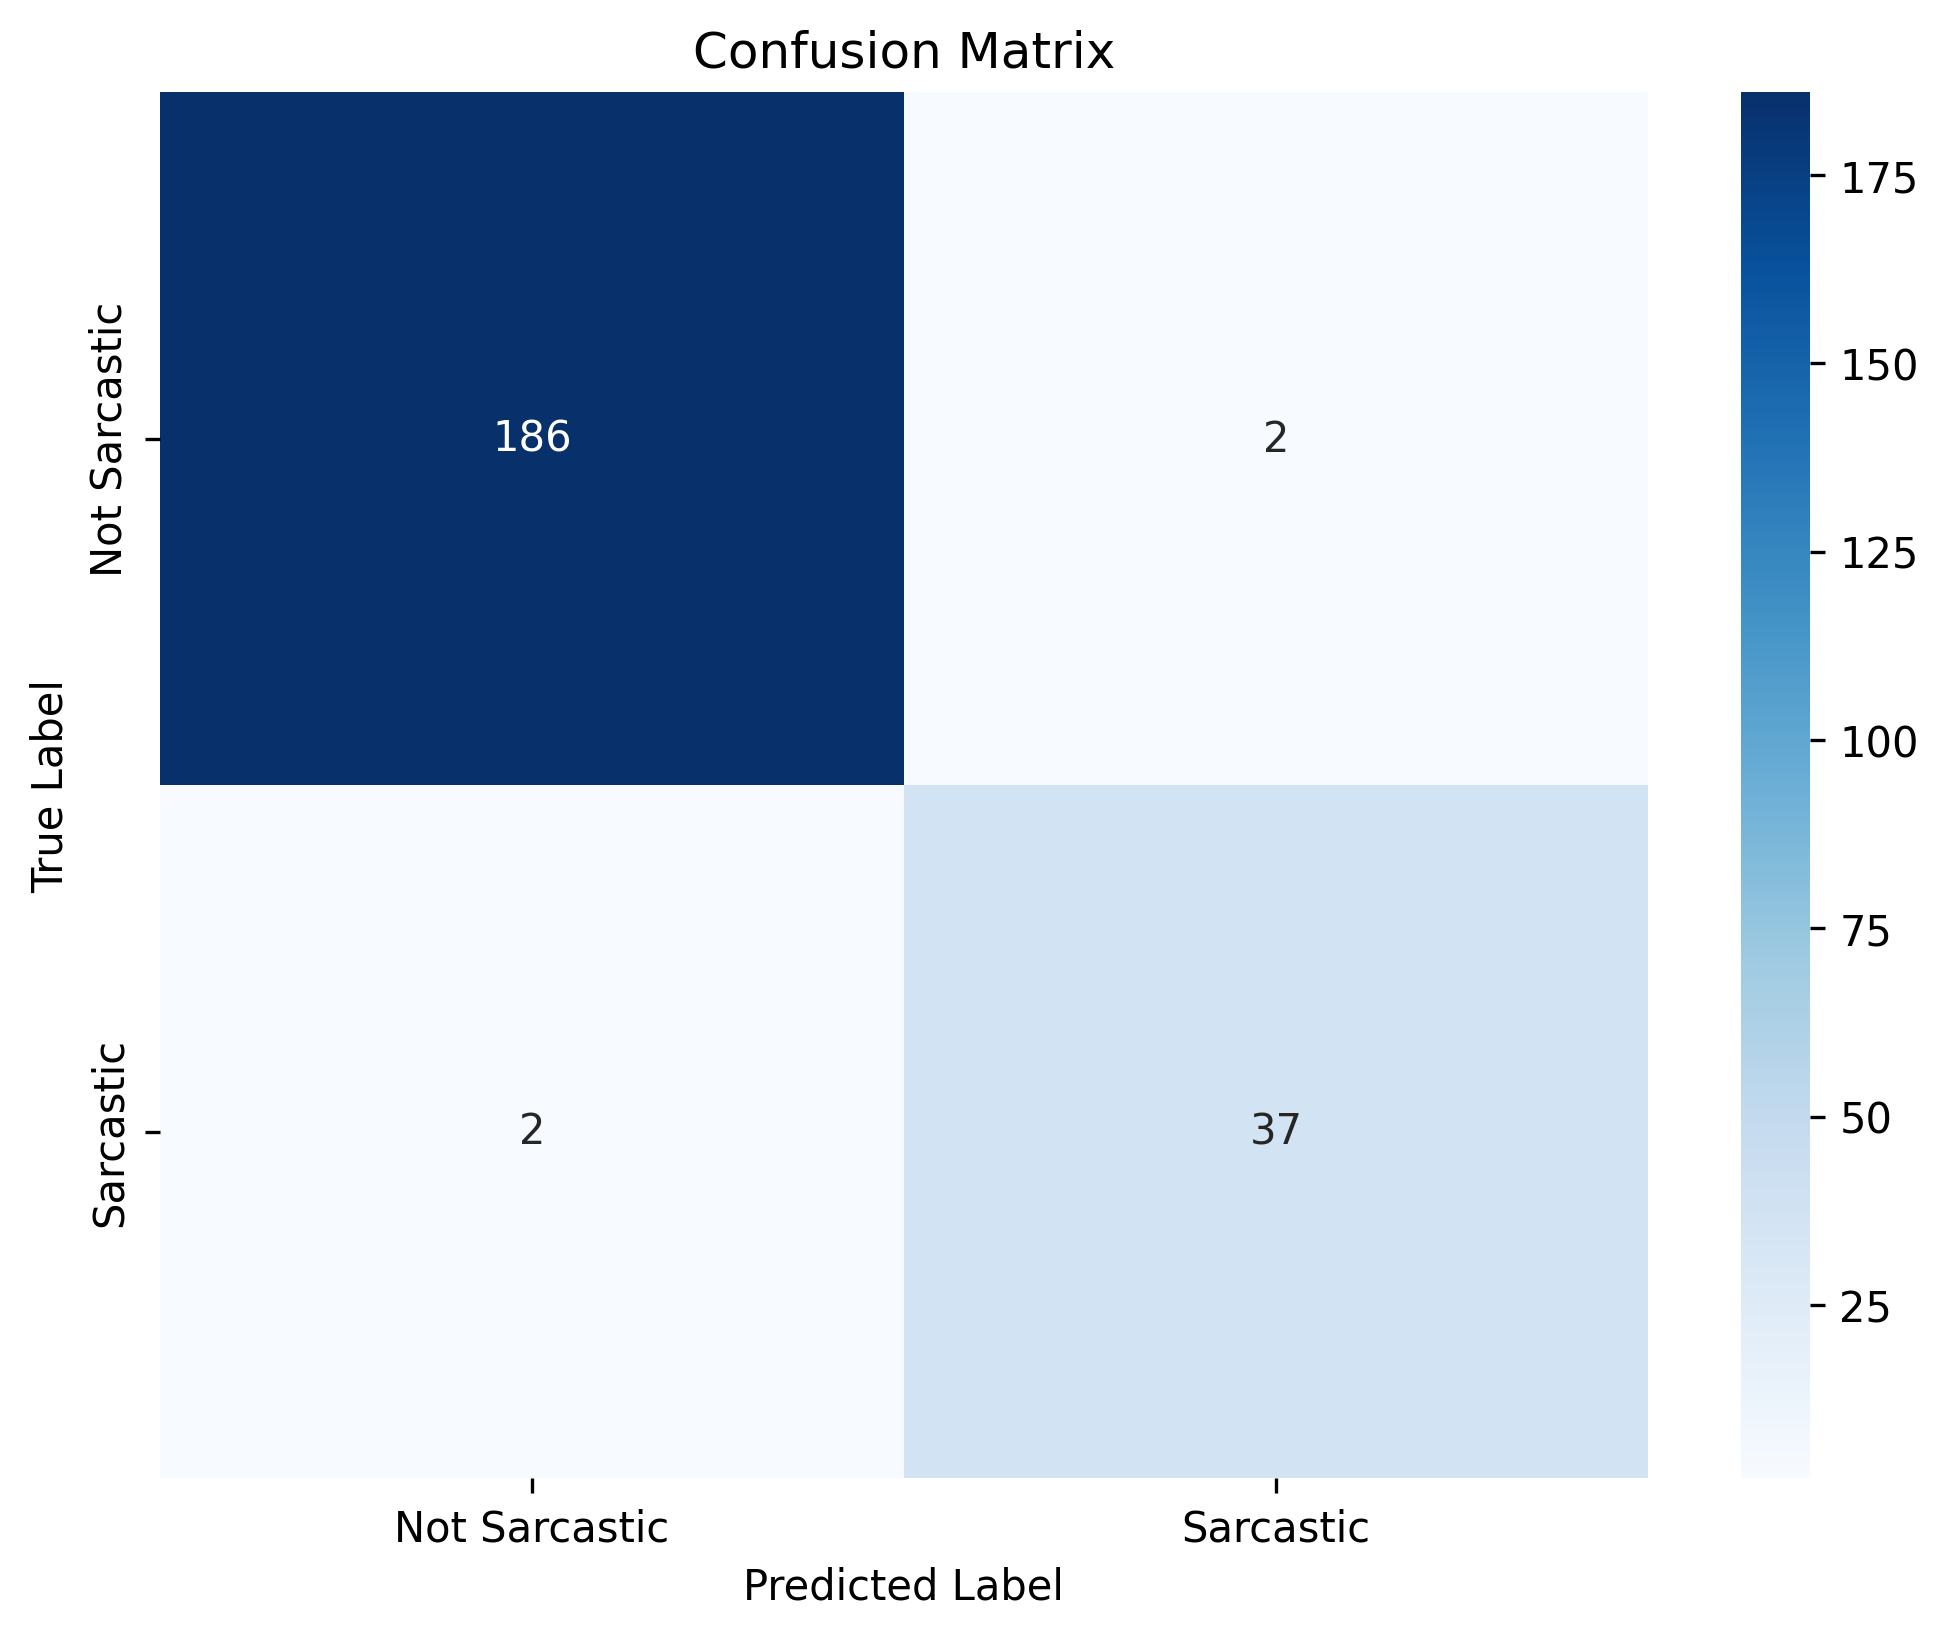
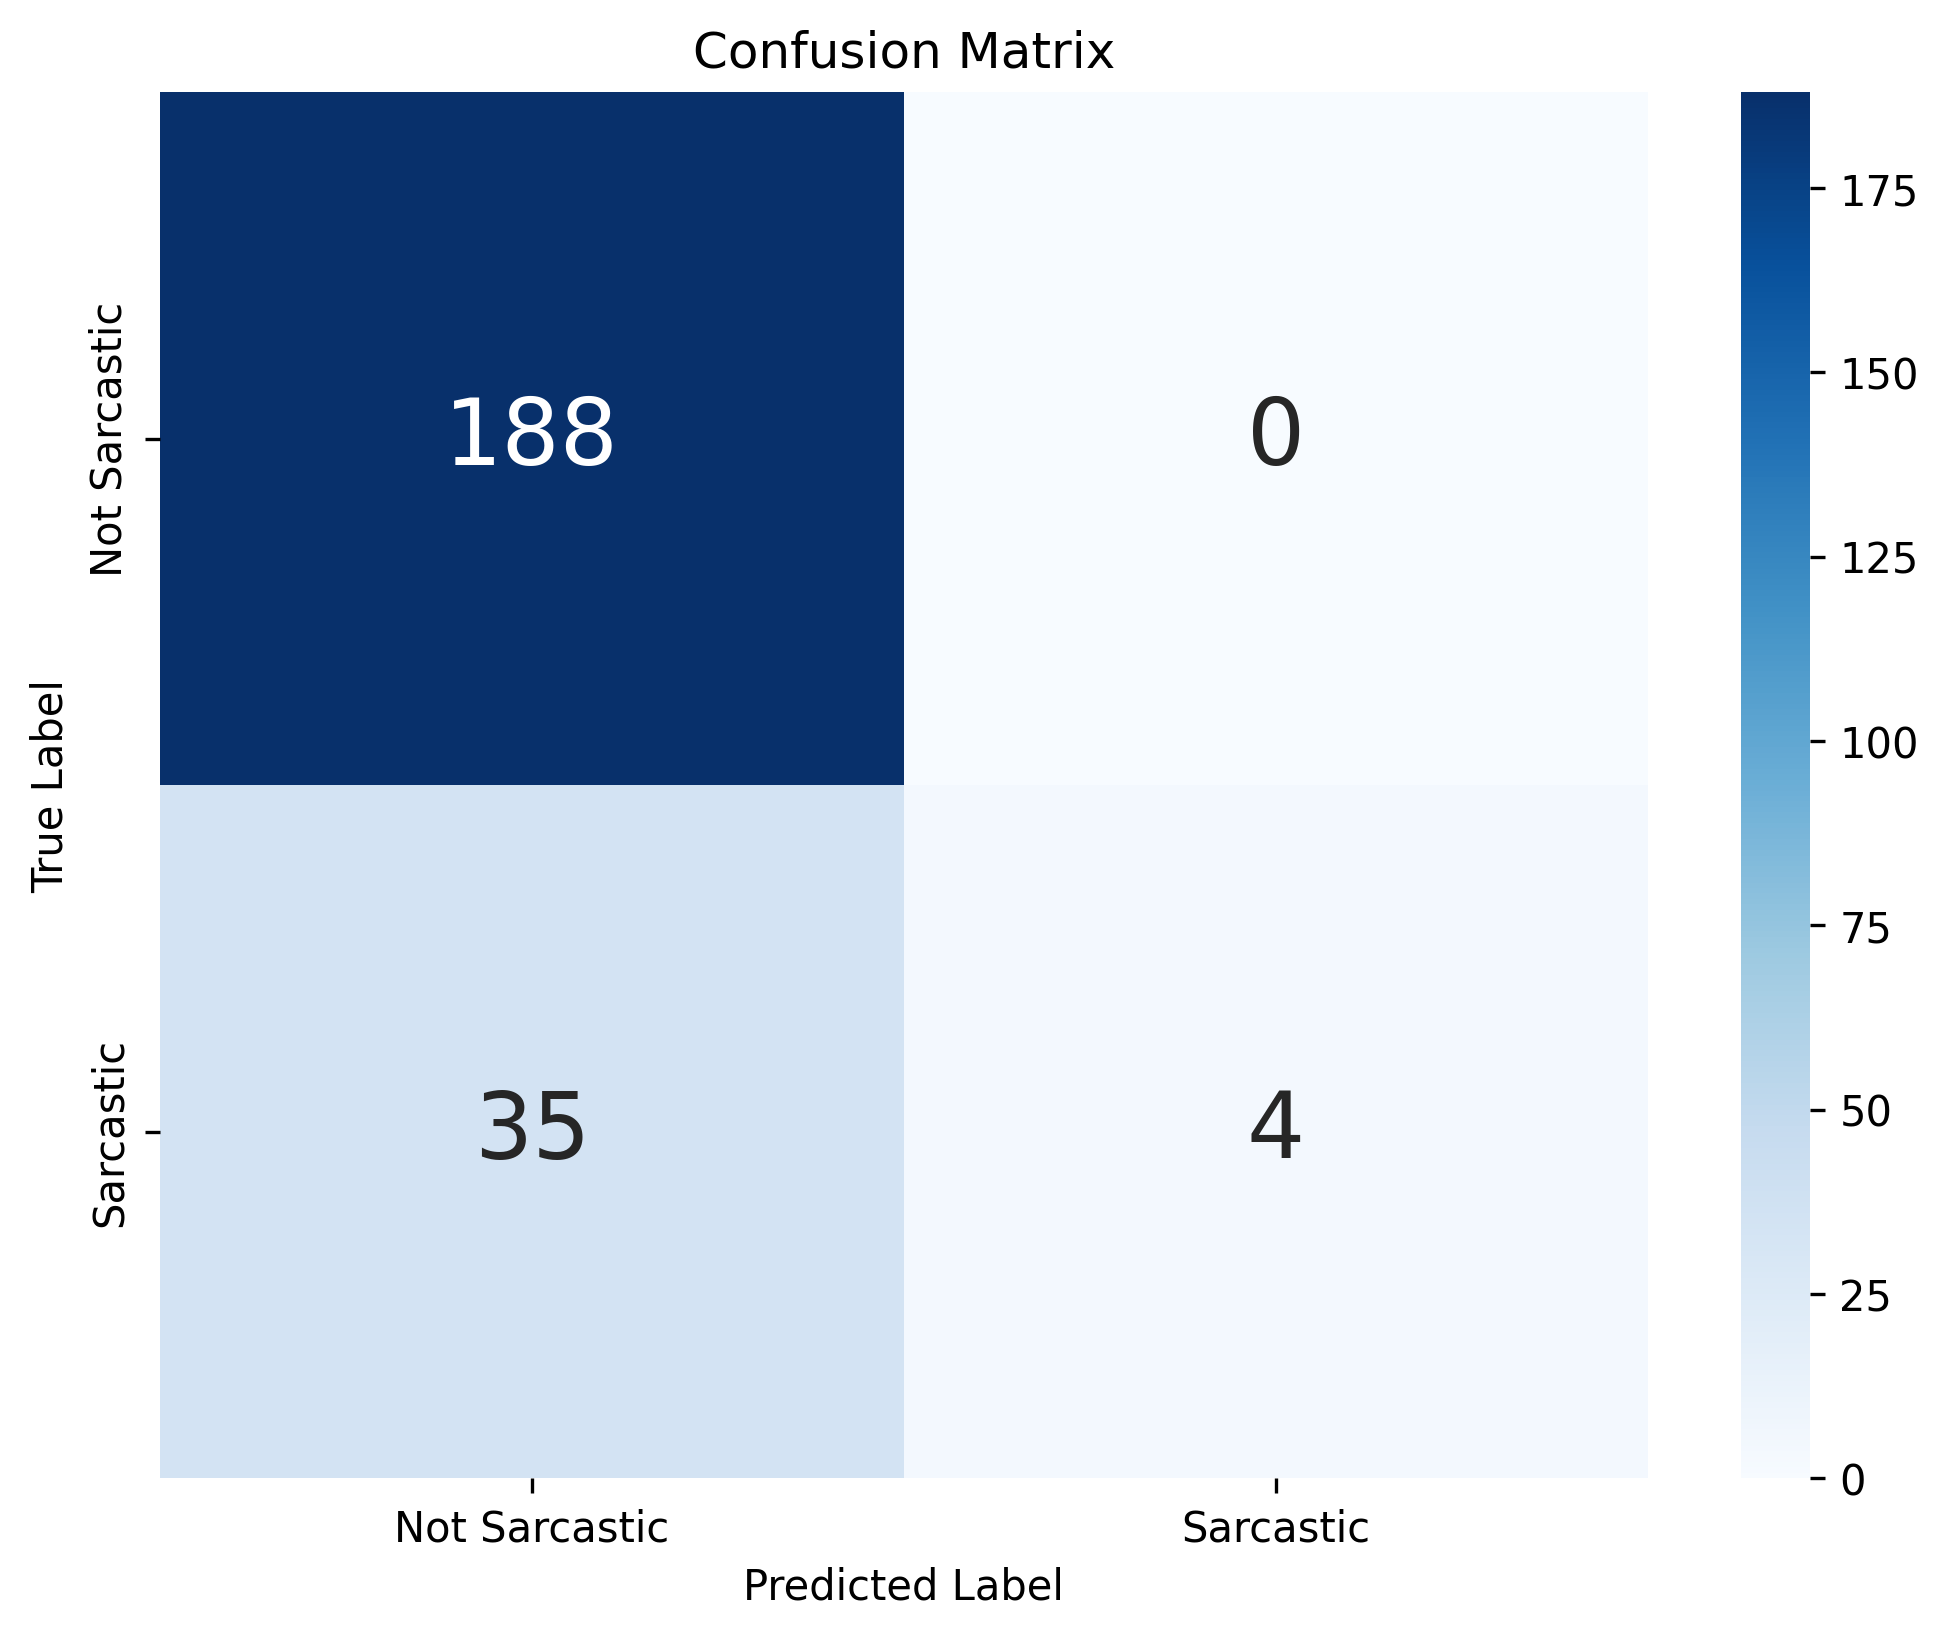
Changed Visuals

diff --git a/Bi-LSTM/Bi-LSTM.py b/Bi-LSTM/Bi-LSTM.py
@@ -4,116 +4,127 @@ import numpy as np
 import tensorflow as tf
 import matplotlib.pyplot as plt
 import seaborn as sns
+import pandas as pd
 from tensorflow.keras import regularizers
-from tensorflow.keras.layers import Input, Embedding, Bidirectional, LSTM, Dense, Dropout, SpatialDropout1D, GaussianNoise
+from tensorflow.keras.layers import Input, Embedding, Bidirectional, LSTM, Dense, Dropout, SpatialDropout1D
 from tensorflow.keras.models import Model
-from tensorflow.keras.callbacks import EarlyStopping, ReduceLROnPlateau
+from tensorflow.keras.callbacks import EarlyStopping, ReduceLROnPlateau, ModelCheckpoint
 from tensorflow.keras.preprocessing.text import Tokenizer
 from tensorflow.keras.preprocessing.sequence import pad_sequences
 from sklearn.metrics import classification_report, confusion_matrix
 from sklearn.model_selection import train_test_split
 from sklearn.utils.class_weight import compute_class_weight
 
-# Configuration
-MAX_LEN = 50
-VOCAB_SIZE = 15000
+# ---------------------- Configuration ---------------------- #
+MAX_LEN = 35
+VOCAB_SIZE = 12000
 EMBEDDING_DIM = 96
-BATCH_SIZE = 64
+BATCH_SIZE = 128
 EPOCHS = 40
-MODEL_PATH = "optimized_bi_lstm.keras"
+OUTPUT_DIR = "bilstm_hindi_sarcasm_outputs"
+SARCASTIC_PATH = "../data/Sarcasm_Hindi_Tweets-SARCASTIC.csv"
+NON_SARCASTIC_PATH = "../data/Sarcasm_Hindi_Tweets-NON-SARCASTIC.csv"
 
-def load_dataset():
-    """Improved data loading with validation"""
-    tweets = {}
-    with open("../Dataset/Sarcasm_tweets.txt", "r", encoding='utf-8') as f:
-        current_id = ""
-        for line in f:
-            line = line.strip()
-            if line.isdigit():
-                current_id = line
-            elif current_id:
-                tweets[current_id] = line
+os.makedirs(OUTPUT_DIR, exist_ok=True)
 
-    labels = {}
-    with open("../Dataset/Sarcasm_tweet_truth.txt", "r", encoding='utf-8') as f:
-        current_id = ""
-        for line in f:
-            line = line.strip()
-            if line.isdigit():
-                current_id = line
-            elif current_id:
-                labels[current_id] = 1 if line == "YES" else 0
-
-    valid_ids = [id for id in tweets if id in labels]
-    return [tweets[id] for id in valid_ids], np.array([labels[id] for id in valid_ids])
-
+# ---------------------- Enhanced Text Cleaning for Hindi ---------------------- #
 def clean_text(text):
-    """Enhanced text cleaning preserving linguistic features"""
-    text = re.sub(r'http\S+|www\S+|https\S+', '', text)
-    text = re.sub(r'@\w+', '', text)
-    text = re.sub(r'([!?])\1+', r'\1', text)  # Reduce repeated punctuation
-    text = re.sub(r'[^\w\s!?]', '', text)
-    text = re.sub(r'\s+', ' ', text).strip().lower()
+    text = str(text)
+    text = re.sub(r'http\S+|www\S+|https\S+', '', text, flags=re.MULTILINE)  # Remove URLs
+    text = re.sub(r'@\w+', '', text)  # Remove mentions
+    text = re.sub(r'#(\w+)', r'\1', text)  # Keep hashtag text
+    text = ''.join([char for char in text if (0x0900 <= ord(char) <= 0x097F) or char.isalpha() or char.isspace() or char in '!?.,:;'])
+    text = re.sub(r'\s+', ' ', text).strip()
     return text
 
-def build_optimized_model():
-    """Enhanced Bi-LSTM architecture with robust regularization"""
+# ---------------------- Data Loading ---------------------- #
+def load_data(sarcastic_path, non_sarcastic_path):
+    sarcastic = pd.read_csv(sarcastic_path)
+    non_sarcastic = pd.read_csv(non_sarcastic_path)
+    sarcastic['label'] = 1
+    non_sarcastic['label'] = 0
+    df = pd.concat([sarcastic, non_sarcastic], ignore_index=True)
+    df = df.drop_duplicates(subset=['text'])
+    df = df.dropna(subset=['text'])
+    df['clean_tweet'] = df['text'].apply(clean_text)
+    df = df[df['clean_tweet'].str.strip() != '']
+    texts = df['clean_tweet'].tolist()
+    labels = df['label'].to_numpy()
+    return texts, labels
+
+# ---------------------- Bi-LSTM Model Definition ---------------------- #
+def build_bilstm_model():
     inputs = Input(shape=(MAX_LEN,))
     
-    # Embedding with Gaussian Noise
-    x = Embedding(VOCAB_SIZE, EMBEDDING_DIM, 
-                embeddings_regularizer=regularizers.l2(1e-4),
-                mask_zero=True)(inputs)
-    x = GaussianNoise(0.1)(x)
+    x = Embedding(VOCAB_SIZE, EMBEDDING_DIM, embeddings_regularizer=regularizers.l2(1e-4))(inputs)
+    x = SpatialDropout1D(0.5)(x)
     
-    # First BiLSTM with Spatial Dropout
-    x = Bidirectional(LSTM(64, return_sequences=True,
-                         kernel_regularizer=regularizers.l2(1e-4),
-                         recurrent_regularizer=regularizers.l2(1e-4),
-                         dropout=0.3,
-                         recurrent_dropout=0.2))(x)
-    x = SpatialDropout1D(0.4)(x)
+    x = Bidirectional(LSTM(48,
+                           activation='tanh',
+                           recurrent_activation='sigmoid',
+                           kernel_regularizer=regularizers.l2(1e-4),
+                           recurrent_regularizer=regularizers.l2(1e-4),
+                           dropout=0.4,
+                           recurrent_dropout=0.0))(x)
     
-    # Second BiLSTM
-    x = Bidirectional(LSTM(32,
-                         kernel_regularizer=regularizers.l2(1e-4),
-                         recurrent_regularizer=regularizers.l2(1e-4),
-                         dropout=0.3,
-                         recurrent_dropout=0.2))(x)
-    
-    # Dense Layers with Regularization
-    x = Dense(64, activation='relu', 
-             kernel_regularizer=regularizers.l2(1e-4))(x)
-    x = Dropout(0.5)(x)
-    x = Dense(32, activation='relu', 
-             kernel_regularizer=regularizers.l2(1e-4))(x)
-    x = Dropout(0.4)(x)
+    x = Dense(64, activation='relu', kernel_regularizer=regularizers.l2(1e-4))(x)
+    x = Dropout(0.6)(x)
     
     outputs = Dense(1, activation='sigmoid')(x)
     
     model = Model(inputs=inputs, outputs=outputs)
-    
-    # Optimizer with Weight Decay
-    optimizer = tf.keras.optimizers.AdamW(
-        learning_rate=2e-4,
-        weight_decay=1e-4,
-        clipnorm=1.0
-    )
-    
     model.compile(
-        optimizer=optimizer,
+        optimizer=tf.keras.optimizers.Nadam(learning_rate=2e-4),
         loss='binary_crossentropy',
-        metrics=['accuracy', 
-                tf.keras.metrics.Precision(name='precision'),
-                tf.keras.metrics.Recall(name='recall')]
+        metrics=['accuracy', tf.keras.metrics.Precision(), tf.keras.metrics.Recall()]
     )
     return model
 
-def plot_training_curves(history):
-    """Enhanced visualization with consistent scaling"""
+# ---------------------- Main ---------------------- #
+def main():
+    # Load dataset
+    texts, labels = load_data(SARCASTIC_PATH, NON_SARCASTIC_PATH)
+    print(f"Class distribution: {np.bincount(labels)}")
+    print(f"Sarcastic ratio: {np.mean(labels):.2%}")
+
+    # Train-test split
+    X_train, X_test, y_train, y_test = train_test_split(
+        texts, labels, test_size=0.2, random_state=42, stratify=labels
+    )
+
+    # Tokenization
+    tokenizer = Tokenizer(num_words=VOCAB_SIZE, oov_token='<OOV>')
+    tokenizer.fit_on_texts(X_train)
+    X_train_seq = tokenizer.texts_to_sequences(X_train)
+    X_test_seq = tokenizer.texts_to_sequences(X_test)
+    X_train_padded = pad_sequences(X_train_seq, maxlen=MAX_LEN, padding='post')
+    X_test_padded = pad_sequences(X_test_seq, maxlen=MAX_LEN, padding='post')
+
+    # Class weights
+    class_weights = compute_class_weight('balanced', classes=np.unique(y_train), y=y_train)
+    class_weights = dict(enumerate(class_weights))
+
+    # Callbacks
+    callbacks = [
+        EarlyStopping(monitor='val_accuracy', patience=7, min_delta=0.001, restore_best_weights=True),
+        ReduceLROnPlateau(monitor='val_loss', factor=0.5, patience=4, min_lr=1e-6),
+        ModelCheckpoint(os.path.join(OUTPUT_DIR, "bilstm_hindi_model.keras"), save_best_only=True)
+    ]
+
+    # Build and train model
+    model = build_bilstm_model()
+    history = model.fit(
+        X_train_padded, y_train,
+        validation_data=(X_test_padded, y_test),
+        epochs=EPOCHS,
+        batch_size=BATCH_SIZE,
+        callbacks=callbacks,
+        class_weight=class_weights,
+        verbose=1
+    )
+
+    # Save training curves
     plt.figure(figsize=(15, 6))
-    
-    # Accuracy plot
     plt.subplot(1, 2, 1)
     plt.plot(history.history['accuracy'], label='Train')
     plt.plot(history.history['val_accuracy'], label='Validation')
@@ -121,10 +132,9 @@ def plot_training_curves(history):
     plt.ylabel('Accuracy')
     plt.xlabel('Epoch')
     plt.ylim(0.5, 1.0)
-    plt.grid(linestyle='--', alpha=0.6)
     plt.legend()
-    
-    # Loss plot
+    plt.grid(linestyle='--', alpha=0.6)
+
     plt.subplot(1, 2, 2)
     plt.plot(history.history['loss'], label='Train')
     plt.plot(history.history['val_loss'], label='Validation')
@@ -132,83 +142,33 @@ def plot_training_curves(history):
     plt.ylabel('Loss')
     plt.xlabel('Epoch')
     plt.ylim(0, 1.5)
-    plt.grid(linestyle='--', alpha=0.6)
     plt.legend()
-    
+    plt.grid(linestyle='--', alpha=0.6)
+
     plt.tight_layout()
-    plt.savefig('training_curves.png', dpi=300, bbox_inches='tight')
+    plt.savefig(os.path.join(OUTPUT_DIR, 'training_curves.png'), dpi=300, bbox_inches='tight')
     plt.close()
 
-def main():
-    # Load and preprocess data
-    texts, labels = load_dataset()
-    texts = [clean_text(text) for text in texts]
-    
-    print(f"Class distribution: {np.bincount(labels)}")
-    print(f"Sarcastic ratio: {np.mean(labels):.2%}")
-    
-    # Tokenization
-    tokenizer = Tokenizer(num_words=VOCAB_SIZE, oov_token='<OOV>', filters='')
-    tokenizer.fit_on_texts(texts)
-    sequences = tokenizer.texts_to_sequences(texts)
-    padded = pad_sequences(sequences, maxlen=MAX_LEN, padding='post')
-    
-    # Stratified split
-    X_train, X_test, y_train, y_test = train_test_split(
-        padded, labels, test_size=0.2, 
-        stratify=labels, random_state=42,
-        shuffle=True
-    )
-    
-    # Class weights with smoothing
-    class_weights = compute_class_weight('balanced', classes=np.unique(y_train), y=y_train)
-    class_weights = dict(enumerate(class_weights * 0.9))  # Smooth class weights
-    
-    # Callbacks
-    callbacks = [
-        EarlyStopping(monitor='val_loss', patience=10, 
-                     min_delta=0.001, restore_best_weights=True),
-        ReduceLROnPlateau(monitor='val_loss', factor=0.5,
-                         patience=4, min_lr=1e-6, verbose=1),
-        ModelCheckpoint(MODEL_PATH, save_best_only=True)
-    ]
-    
-    # Build and train model
-    model = build_optimized_model()
-    history = model.fit(
-        X_train, y_train,
-        validation_data=(X_test, y_test),
-        epochs=EPOCHS,
-        batch_size=BATCH_SIZE,
-        callbacks=callbacks,
-        class_weight=class_weights,
-        verbose=1
-    )
-    
-    # Evaluation
-    y_pred = (model.predict(X_test) > 0.5).astype(int)
-    
-    # Save classification report
-    report = classification_report(y_test, y_pred, 
-                                  target_names=['Non-Sarcastic', 'Sarcastic'],
-                                  zero_division=0)
-    with open('classification_report.txt', 'w') as f:
+    # Predictions and evaluation
+    y_pred = (model.predict(X_test_padded) > 0.5).astype(int)
+    report = classification_report(y_test, y_pred, target_names=['Not Sarcastic', 'Sarcastic'], zero_division=0)
+    with open(os.path.join(OUTPUT_DIR, 'classification_report.txt'), 'w') as f:
         f.write("Classification Report:\n")
         f.write(report)
-    
+
     # Confusion matrix
-    plt.figure(figsize=(8, 6))
     cm = confusion_matrix(y_test, y_pred)
+    plt.figure(figsize=(8, 6))
     sns.heatmap(cm, annot=True, fmt='d', cmap='Blues',
-                xticklabels=['Non-Sarcastic', 'Sarcastic'],
-                yticklabels=['Non-Sarcastic', 'Sarcastic'])
+                xticklabels=['Not Sarcastic', 'Sarcastic'],
+                yticklabels=['Not Sarcastic', 'Sarcastic'], annot_kws={"size": 22})
     plt.title('Confusion Matrix')
     plt.ylabel('True Label')
     plt.xlabel('Predicted Label')
-    plt.savefig('confusion_matrix.png', dpi=300, bbox_inches='tight')
+    plt.savefig(os.path.join(OUTPUT_DIR, 'confusion_matrix.png'), dpi=300, bbox_inches='tight')
     plt.close()
-    
-    plot_training_curves(history)
+
+    print(f"\nAll outputs saved to: {os.path.abspath(OUTPUT_DIR)}")
 
 if __name__ == "__main__":
     main()
